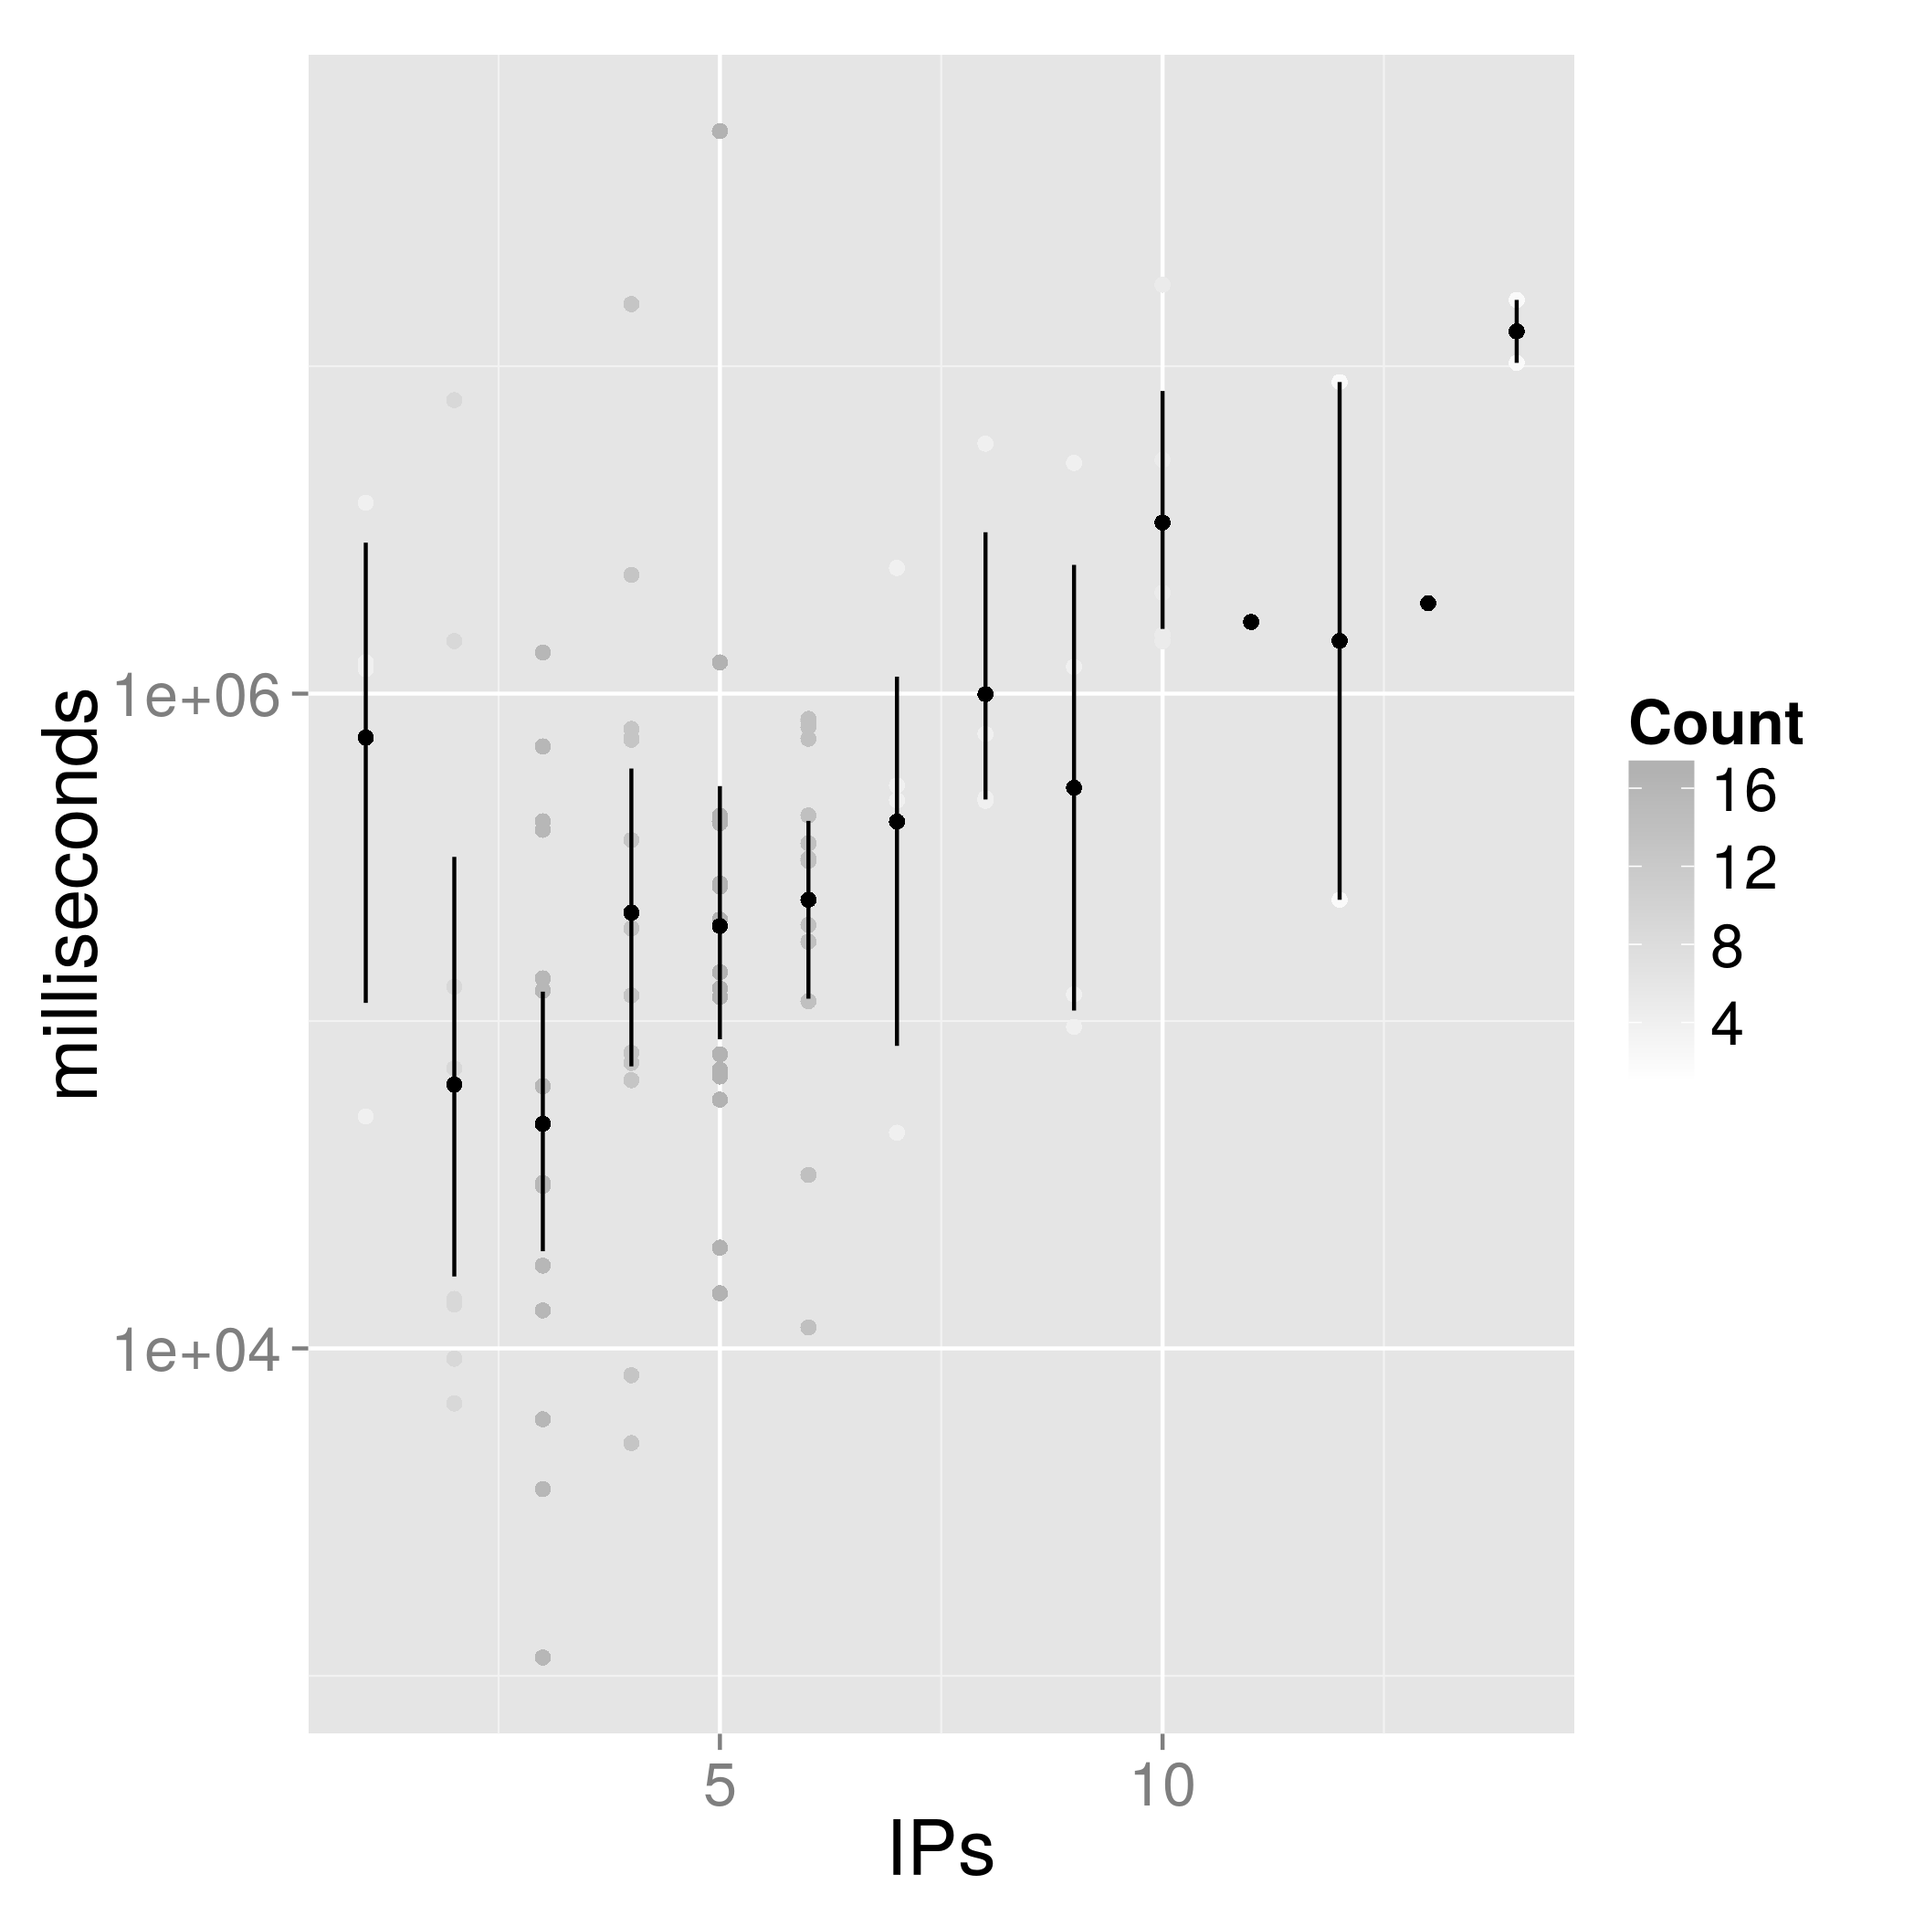
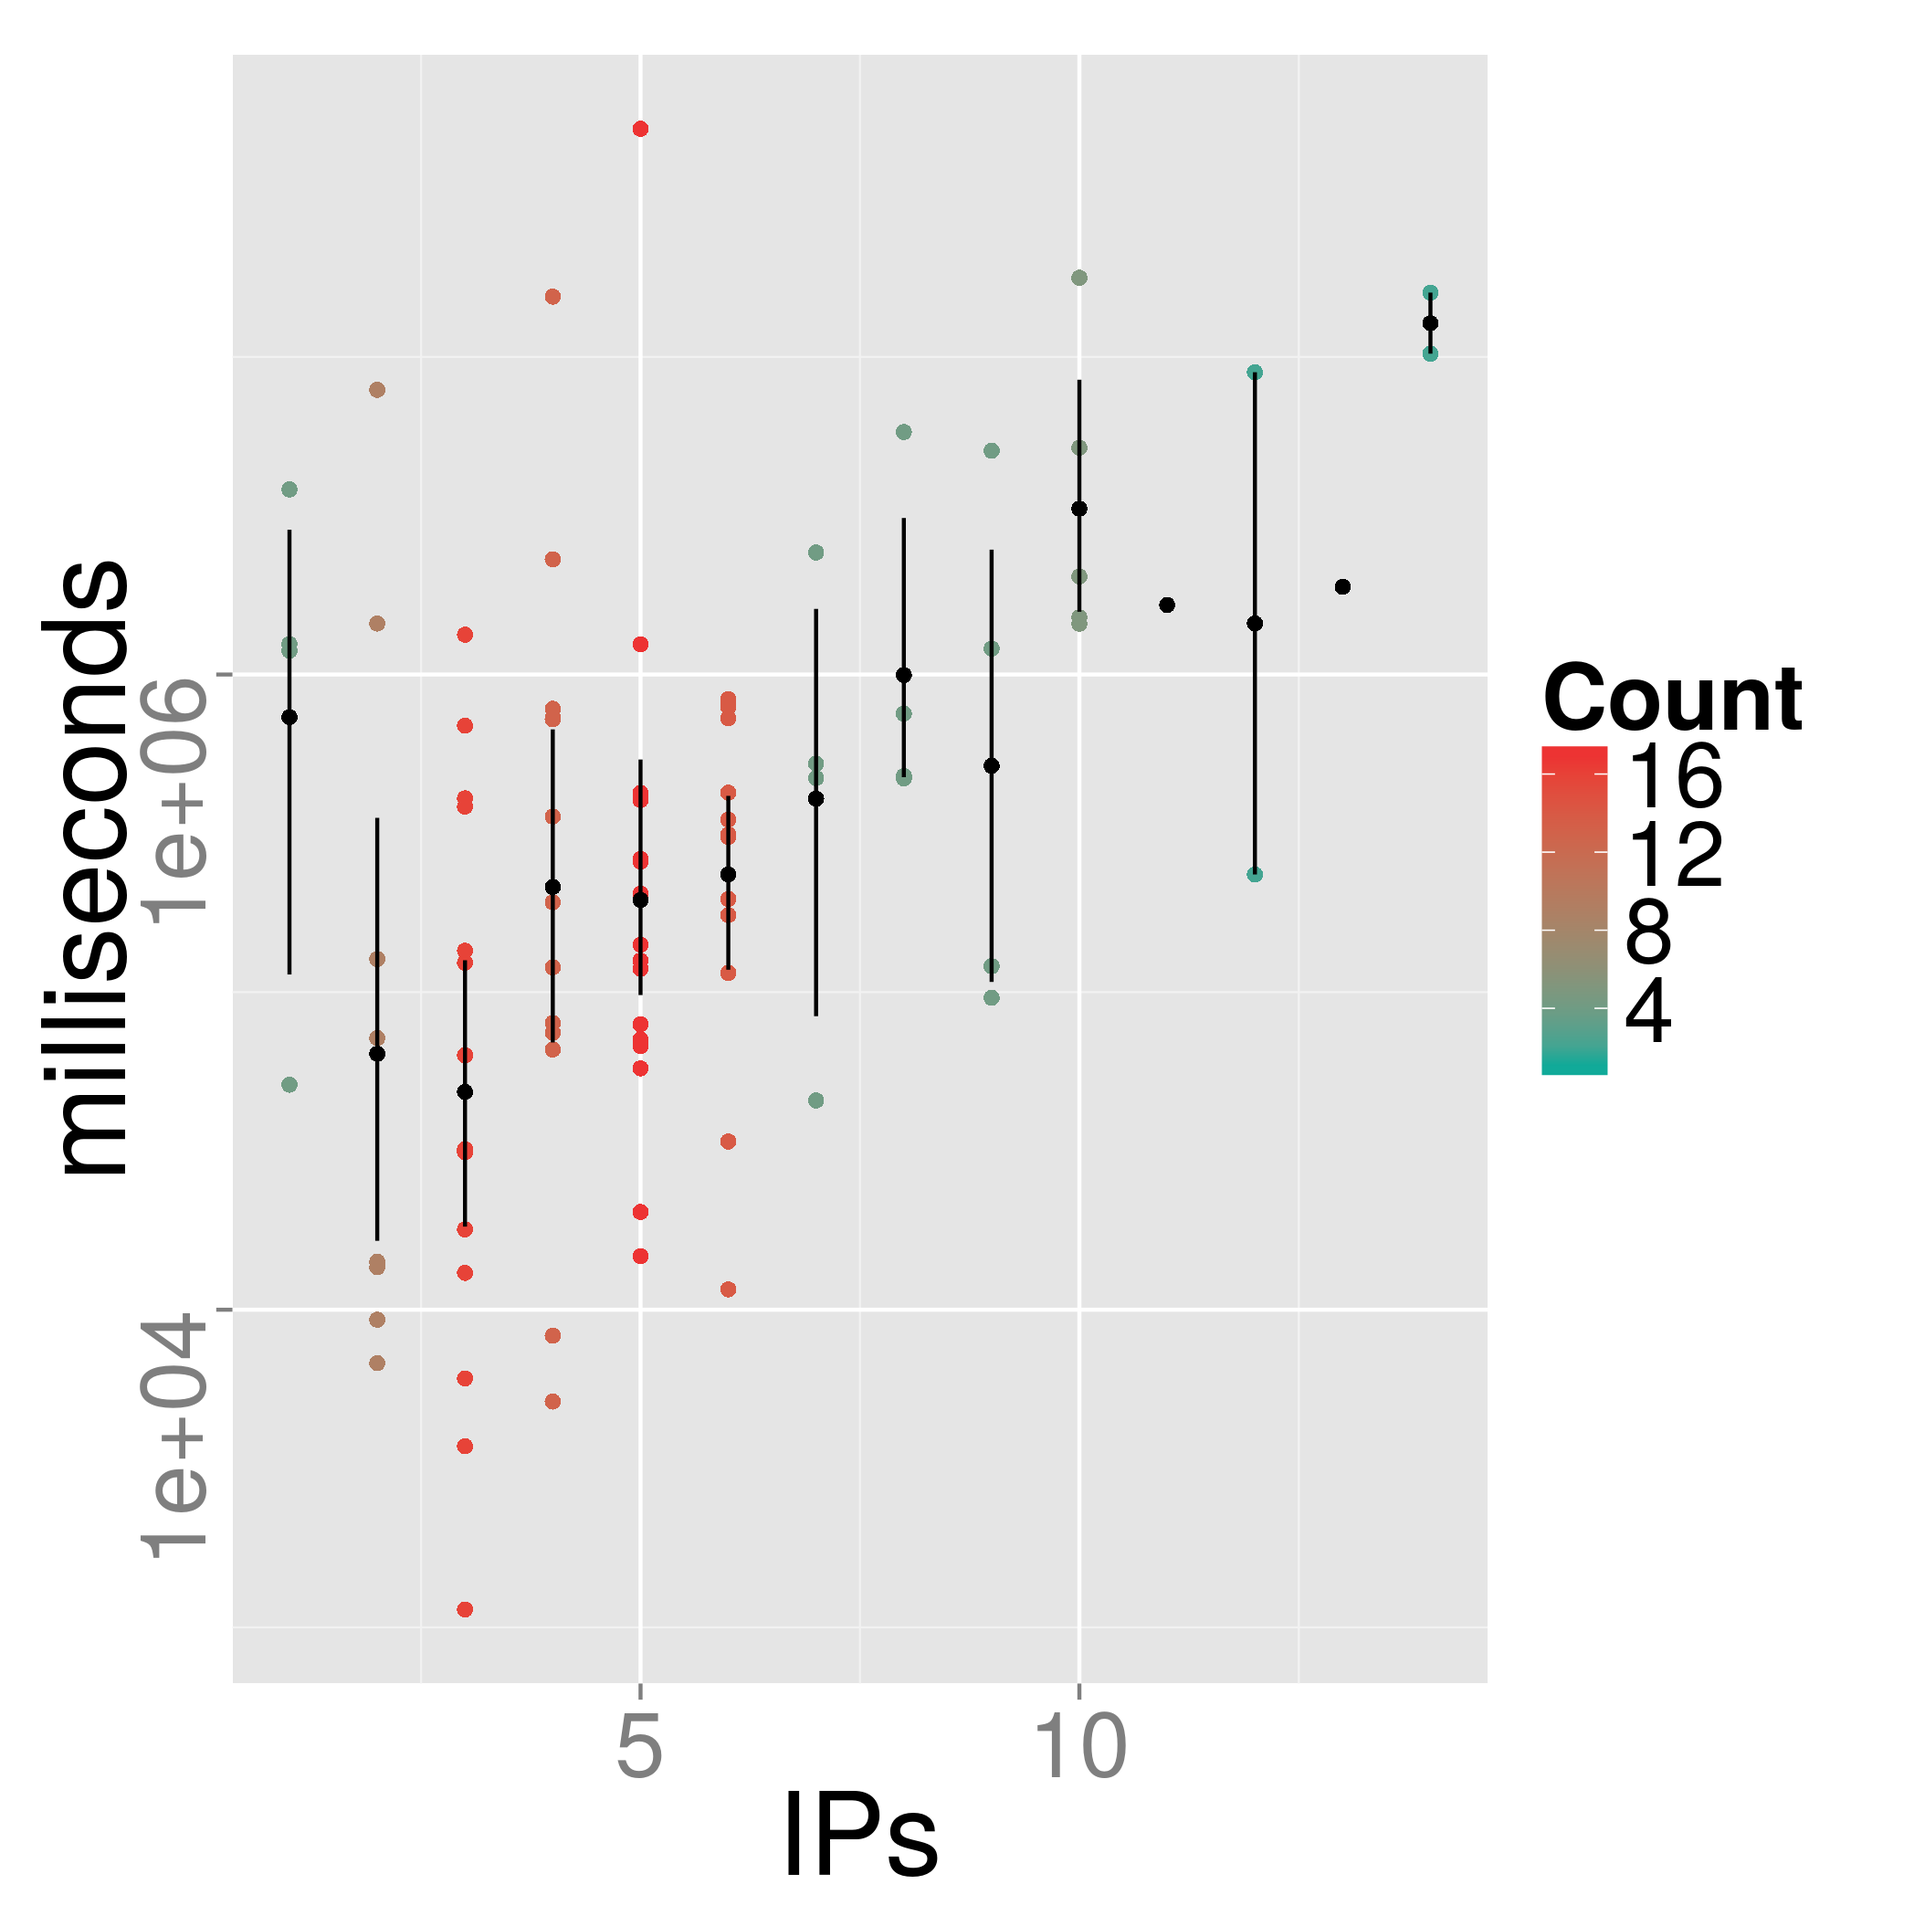
Better fig 1 refs #89

diff --git a/special-issue-ci/volunteer-clouds-ieee-ci-si.tex b/special-issue-ci/volunteer-clouds-ieee-ci-si.tex
@@ -561,7 +561,7 @@ of computers happened less frequently, while darker shadow means more frequency.
 From left to right, experiments 4/4, 4/24 and 7/31.}
 \label{fig:duration}
 \end{figure}
-% ../data/time-vs-IPs-openshift.png 
+% ../data/time-vs-IPs-openshift.R
 %
 \begin{figure}[!htb]
 \centering
